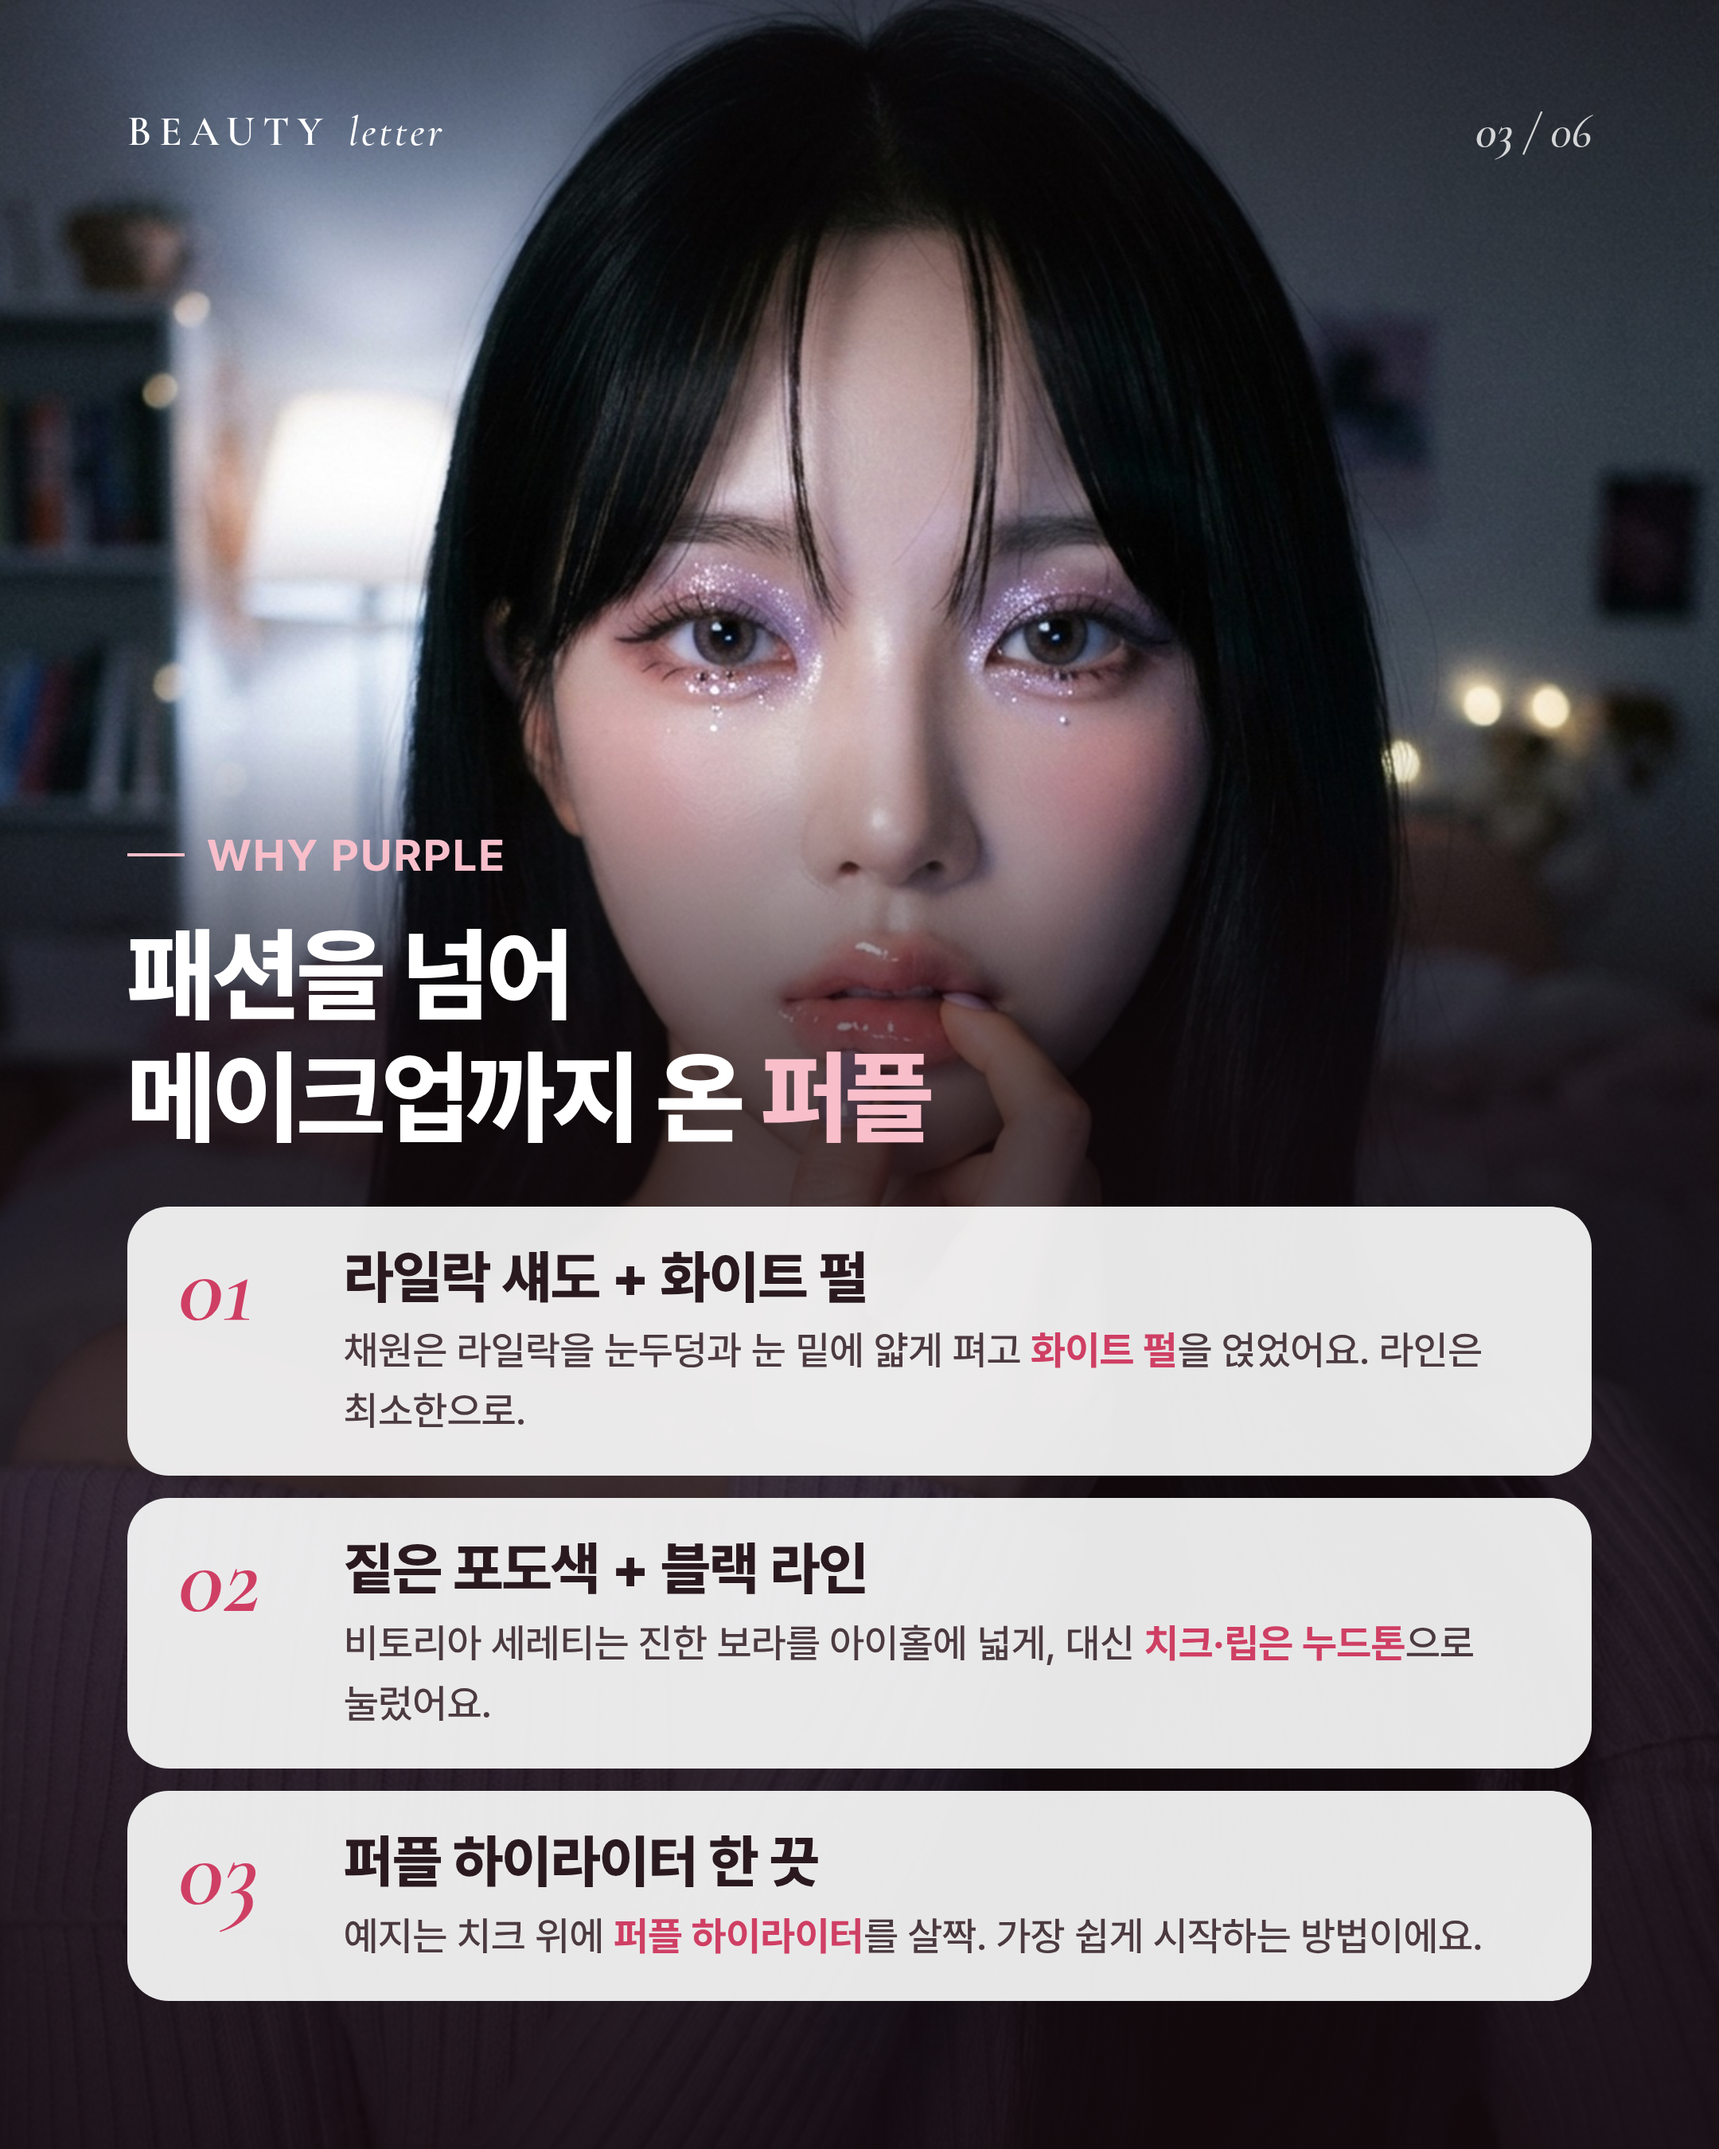
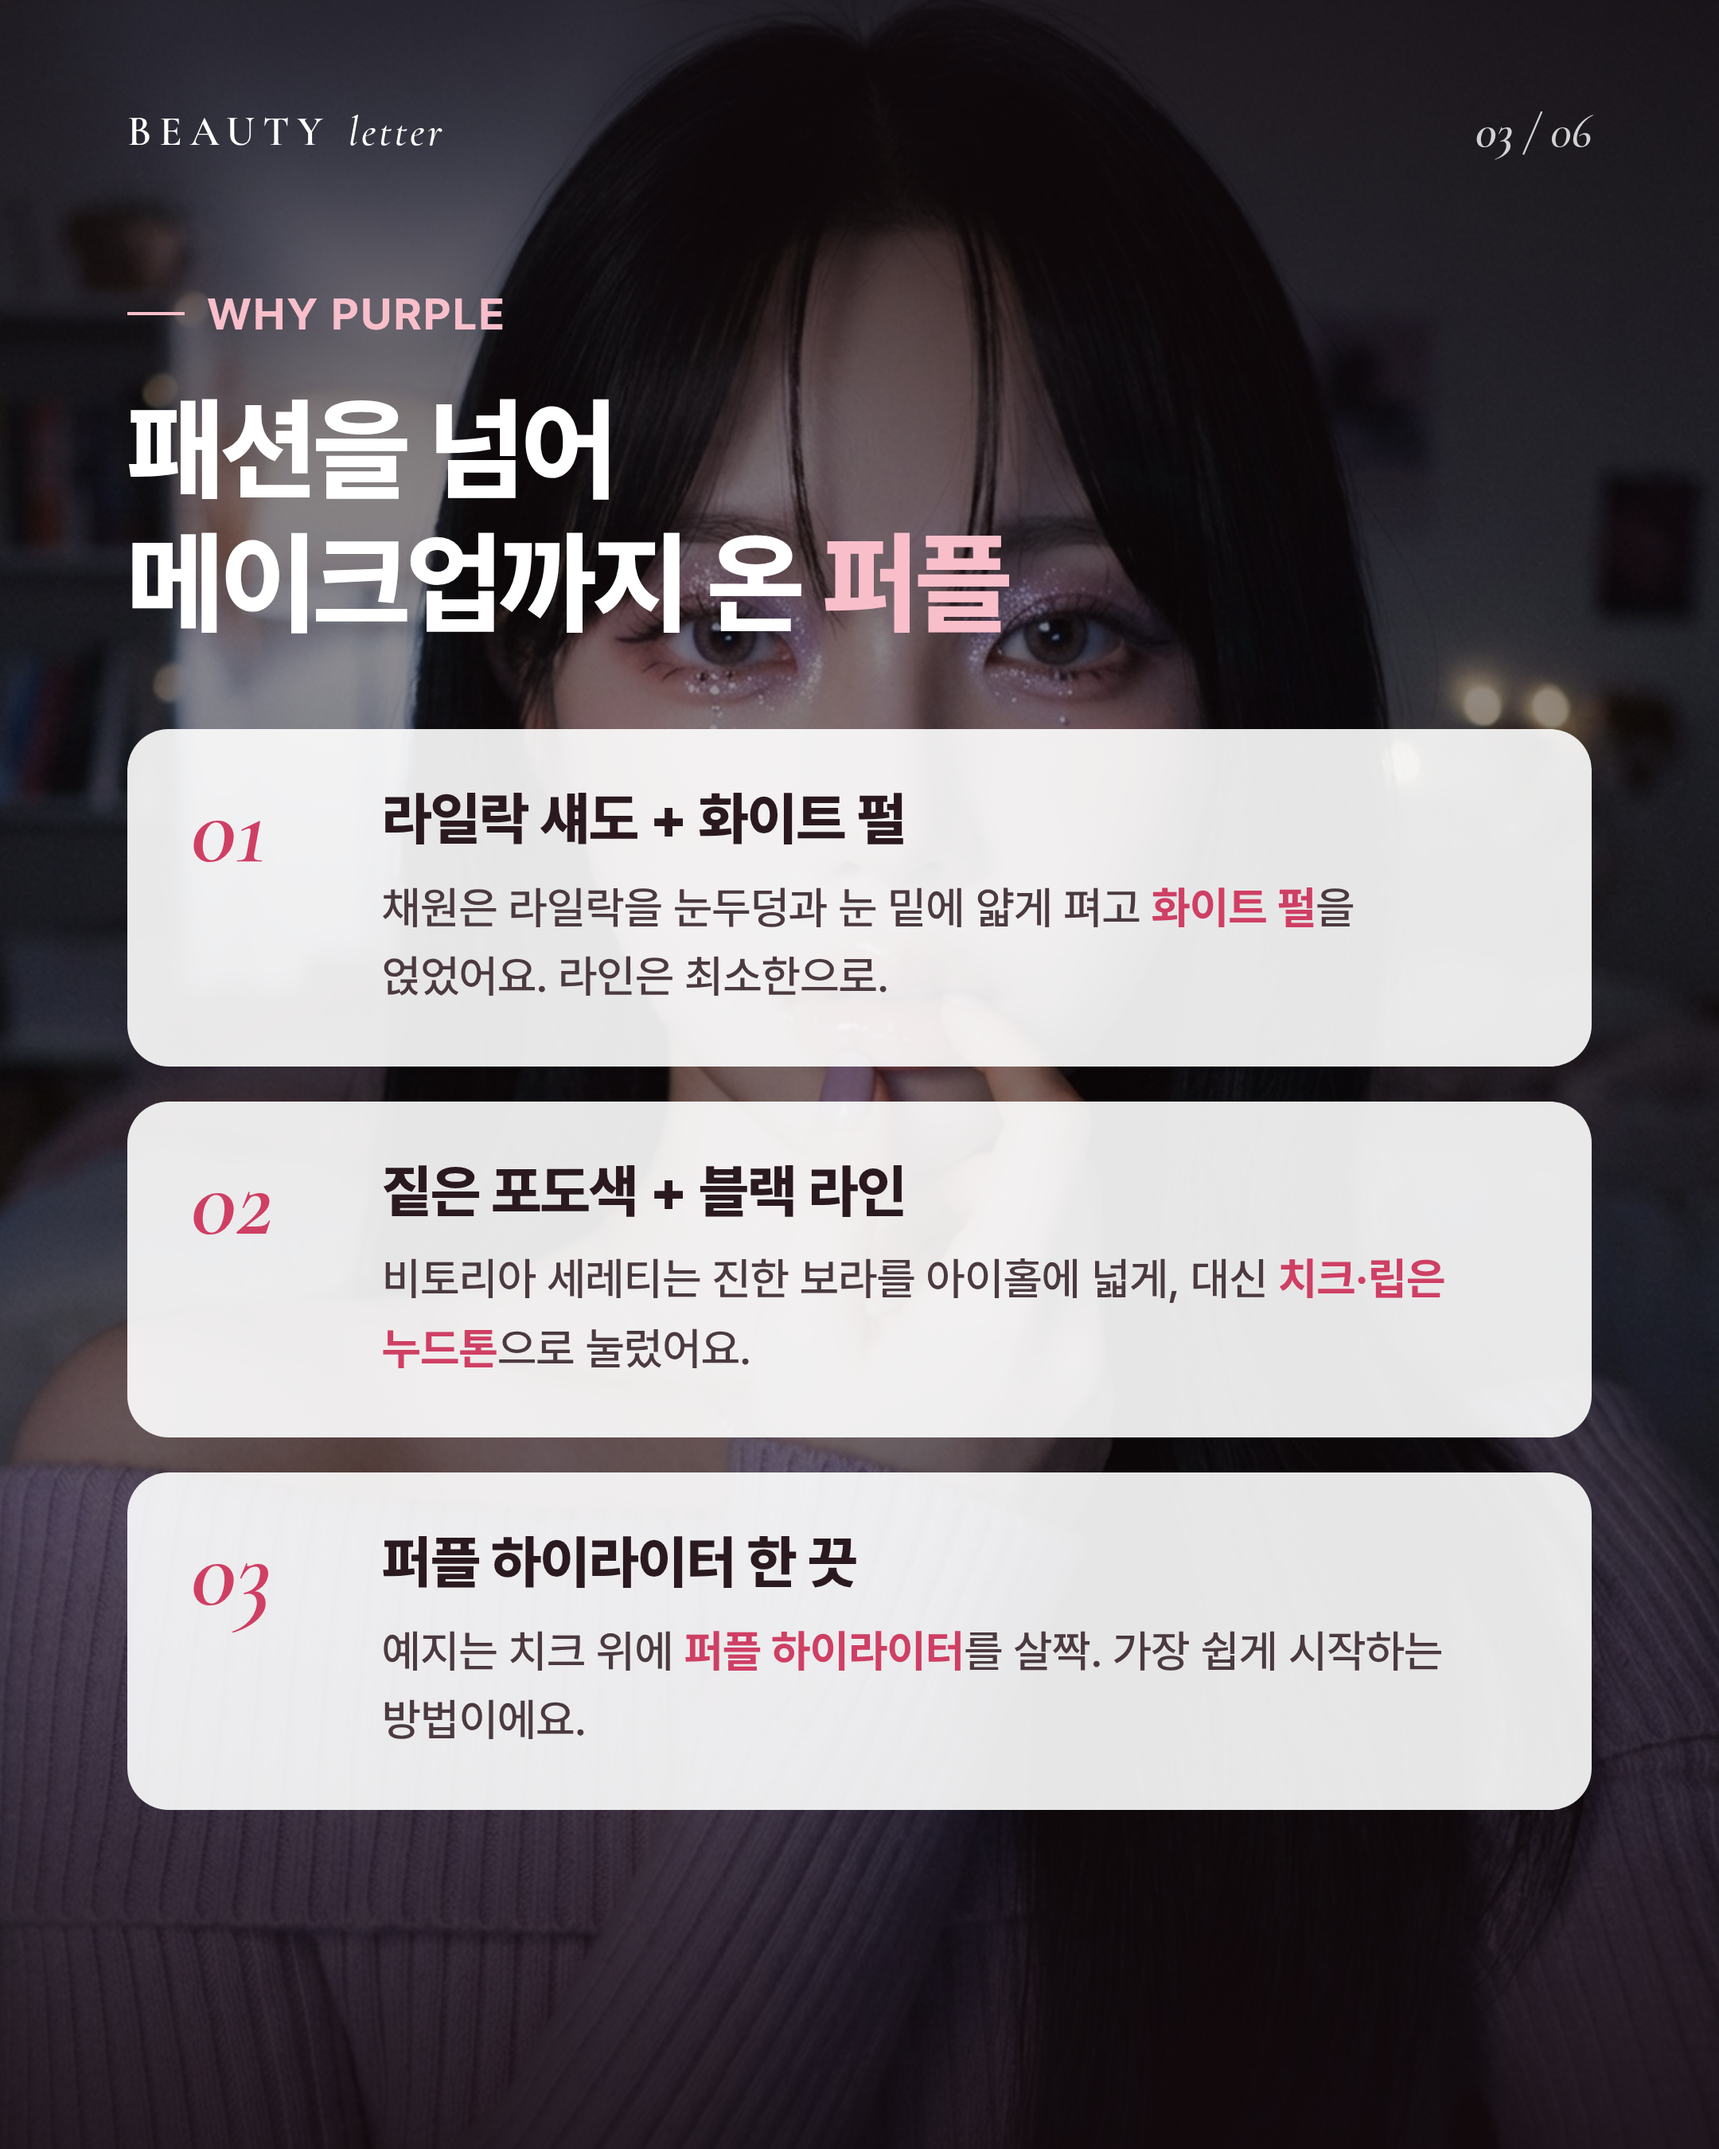
뷰티레터: 보라 레터 3장 내용 배치 원래대로, 배경만 블랙 그라데이션
Claude-Session: https://claude.ai/code/session_01M29FXMb16fvzM5BCrcufte

diff --git a/design/beauty_news/styles.css b/design/beauty_news/styles.css
@@ -455,11 +455,4 @@ body { background: #d9d2cf; font-family: var(--sans); color: var(--plum); word-b
 .points.dark .item { background: rgba(255,255,255,.9); color: var(--plum); }
 /* P.S. 표시는 작게 (2026-10-01) */
 .ps .ps-mark { font-size: 110px; letter-spacing: -2px; margin-bottom: 10px; }
-.points.dark { padding-top: 520px; }
-.points.dark h2 { margin: 20px 0 30px; font-size: 64px; }
-.points.dark .items { gap: 14px; }
-.points.dark .item { padding: 22px 32px; grid-template-columns: 80px 1fr; }
-.points.dark .item h3 { margin-bottom: 4px; }
-.points.dark .item p { font-size: 25px; line-height: 1.5; }
-.bgimg.dark img { object-position: center 8%; }
-.bgimg.dark::after { background: linear-gradient(180deg, rgba(20,10,14,.35) 0%, rgba(20,10,14,0) 18%, rgba(20,10,14,0) 34%, rgba(20,10,14,.7) 52%, rgba(20,10,14,.9) 100%); }
+.bgimg.dark::after { background: linear-gradient(180deg, rgba(20,10,14,.72) 0%, rgba(20,10,14,.45) 30%, rgba(20,10,14,.45) 60%, rgba(20,10,14,.85) 100%); }

diff --git a/design/beauty_news/DESIGN_GUIDE.md b/design/beauty_news/DESIGN_GUIDE.md
@@ -91,7 +91,7 @@
 ## 본문 장 배경 사진
 - 배경을 넣을 때는 **사진 1장만** 씁니다. **콜라주는 절대 하지 않습니다** (2026-10-01 사용자 결정).
 - `letter.json`의 슬라이드에 `"bg": "img/파일.jpg"`를 넣으면 연하게 깔립니다. 이미 만든 AI 이미지 중 안 쓴 컷을 재활용해도 됩니다.
-- 표지처럼 사진을 진하게 쓰려면 `"dark": true`를 같이 넣습니다(사진 그대로 + 아래쪽 블랙 그라데이션, 흰 글씨). 이때 하단 출처 줄(`foot`)은 빼고 출처는 캡션에 적습니다.
+- 표지처럼 사진을 진하게 쓰려면 `"dark": true`를 같이 넣습니다(배경만 표지처럼 블랙 그라데이션, 내용 배치는 그대로). 이때 하단 출처 줄(`foot`)은 빼고 출처는 캡션에 적습니다.
 - 사용자가 고른 이미지가 있으면 그대로 쓰고, 새 이미지를 만들지 않습니다.
 - 마지막 P.S. 장에는 표지 이미지를 연하게 다시 깔아 수미상관으로 마무리합니다(자동). P.S. 글자는 작게(110px) 씁니다.
 
